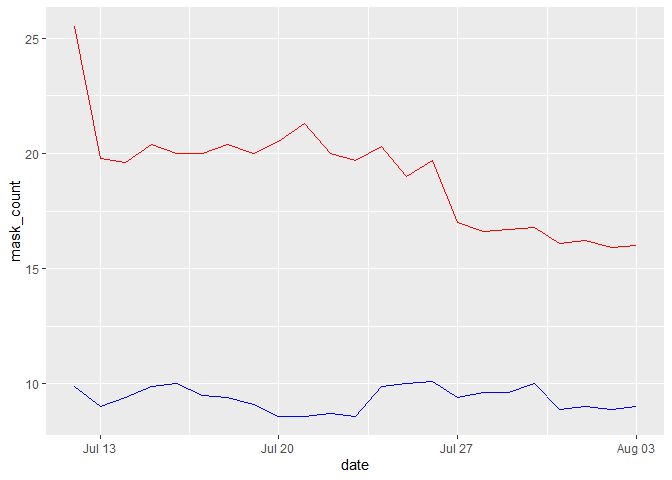
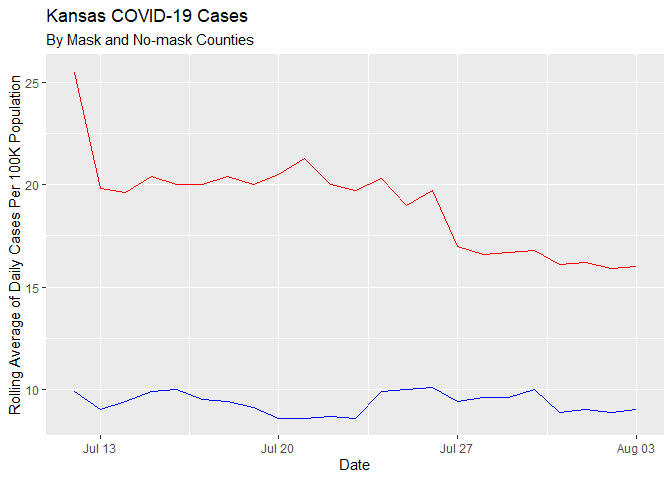
Graph labels

diff --git a/lab-06.md b/lab-06.md
@@ -65,7 +65,11 @@ df
 ``` r
 ggplot(data = df) +
   geom_line(mapping = aes(x = date, y = mask_count), color = "red")+
-  geom_line(mapping = aes(x = date, y = no_mask_count), color = "blue")
+  geom_line(mapping = aes(x = date, y = no_mask_count), color = "blue") +
+  labs(x = "Date", 
+       y = "Rolling Average of Daily Cases Per 100K Population",
+       title = "Kansas COVID-19 Cases",
+       subtitle = "By Mask and No-mask Counties")
 ```
 
 ![](lab-06_files/figure-gfm/better-viz-1.png)<!-- -->
@@ -76,13 +80,4 @@ ggplot(data = df) +
 
 ### Exercise 4
 
-The information shows that the trend of wearing masks was at its peak at
-the start of the pandemic. From this it trends downwards slowly loosing
-popularity as the months continued onwards. There is a small peak along
-the way which could be caused by spikes in the virous and people wanting
-to be safer. The range of the amount of people who wore masks at the
-start compared to the finish shows a great range going from 25.5 per
-100k to begin with down to 16 per 100k, showing a range of 9.5 per 100k.
-However, the number of countries that don’t wear masks (no masks) makes
-a very steady line going across the graph from one side to the other
-with not many increases or decreases in the number of none mask wearers.
+*Add your narrative here.*
